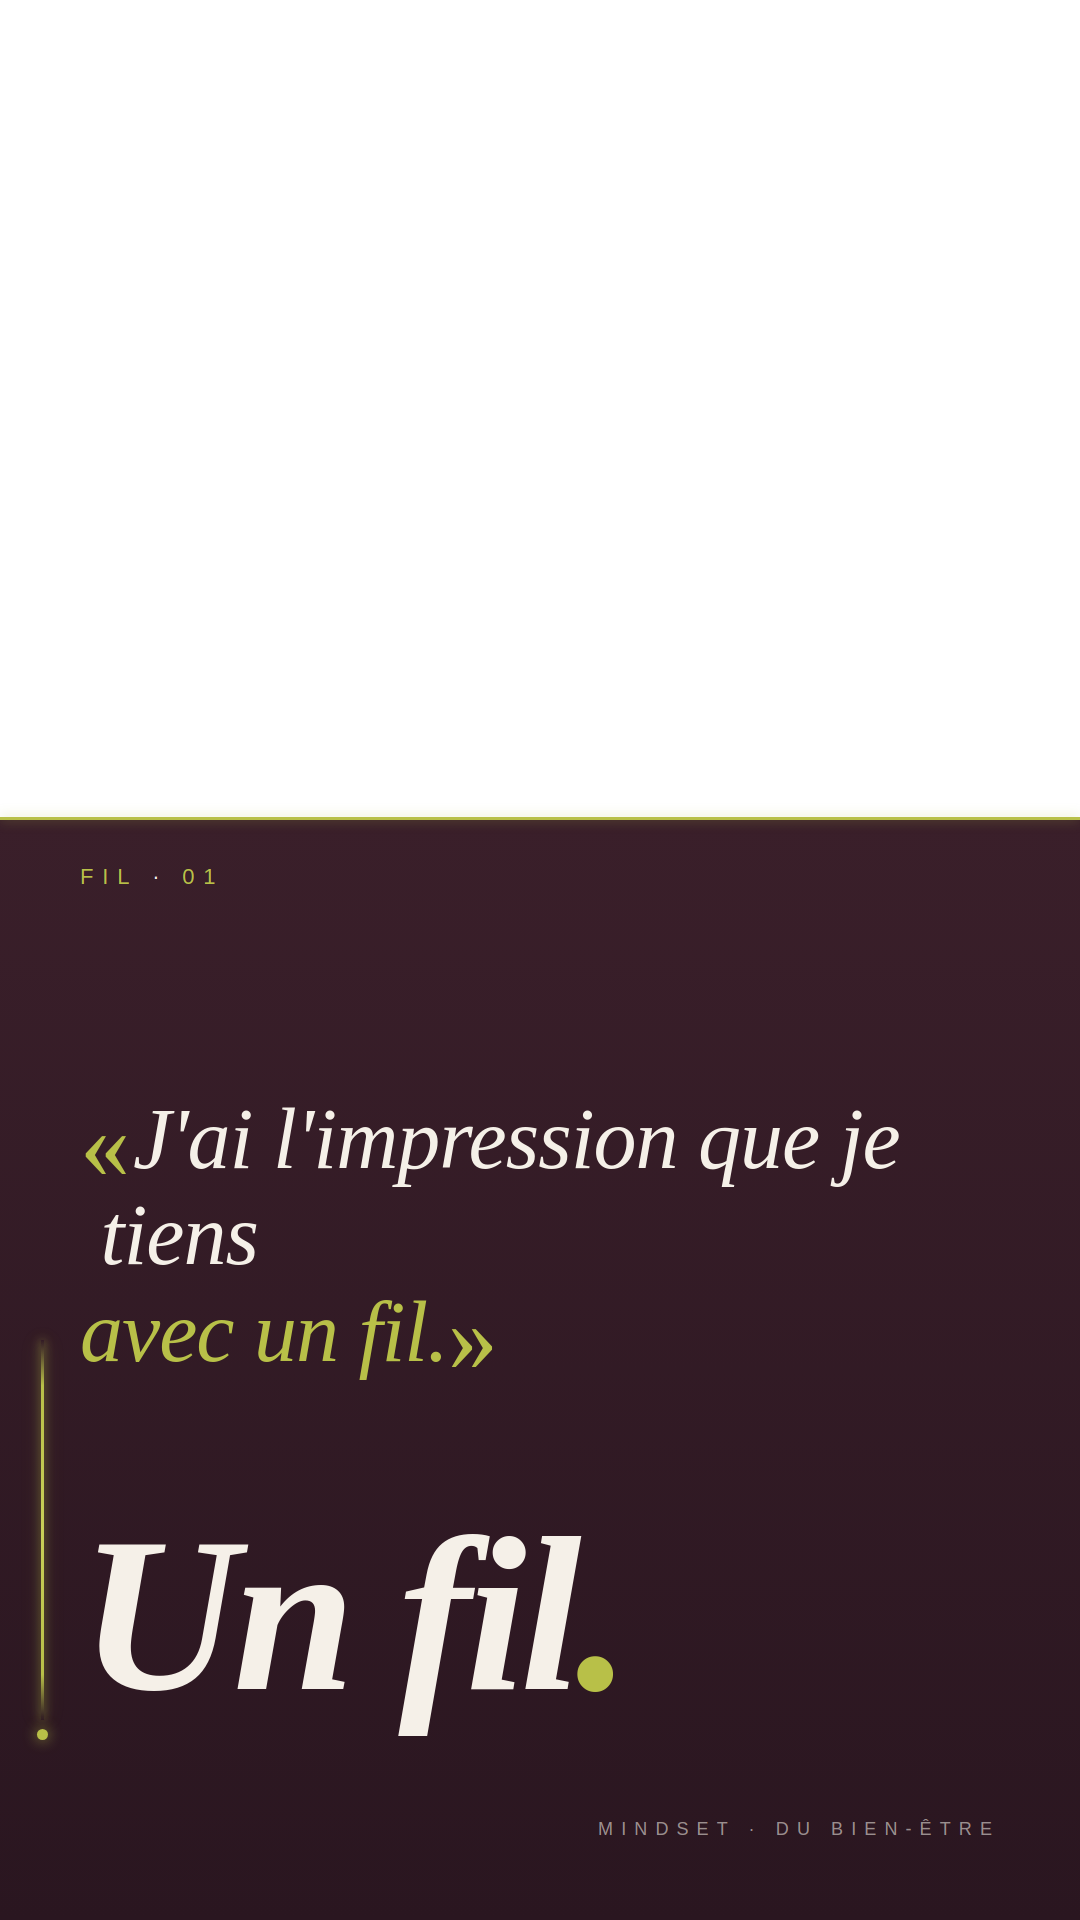
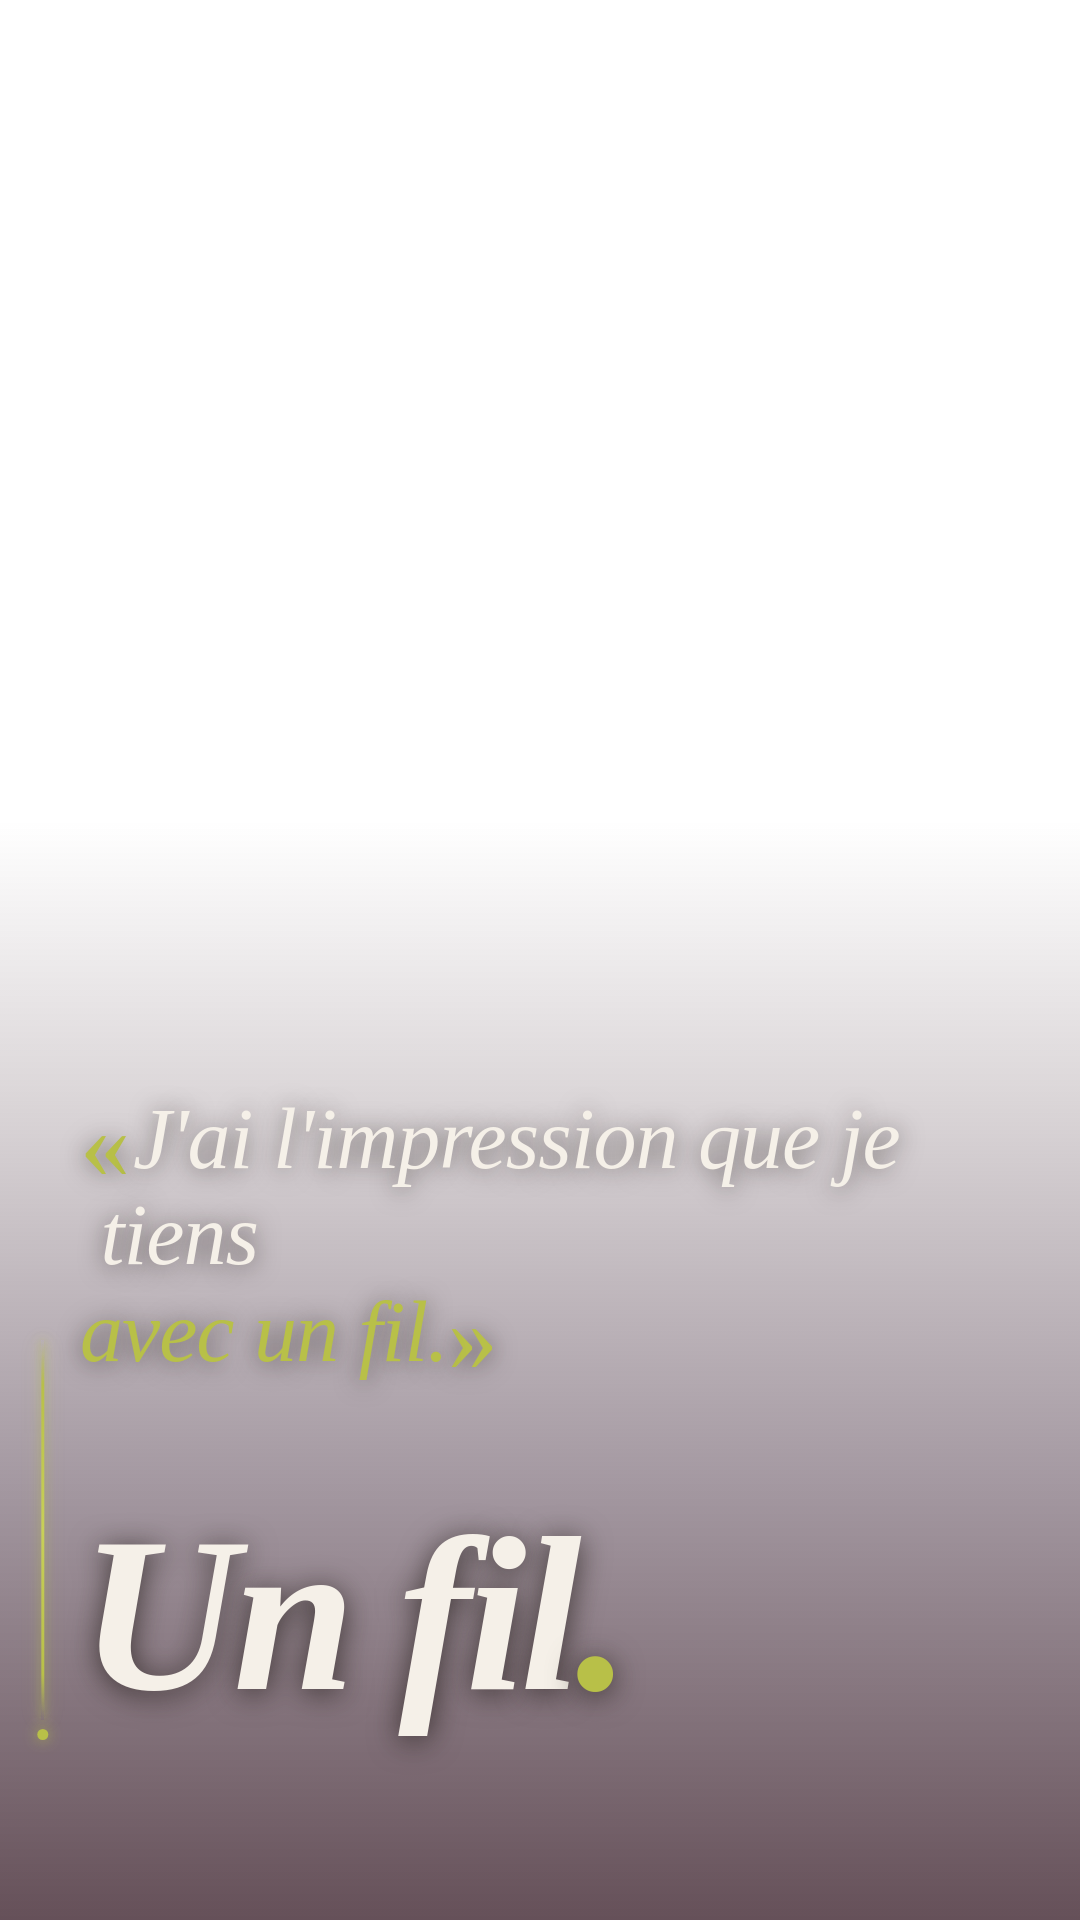
Animation #3 v3: minimalist transparent + soft mauve vignette
User feedback: remove solid aubergine wall, footer mark and
FIL·01 cartouche. Pure transparent background with subtle
mauve→aubergine vertical gradient at bottom (face area stays
fully clear). Stripped to essentials: quote, vertical fil,
"Un fil." dominant.

https://claude.ai/code/session_011tZHFvmgHookxc9Tkwo7CD

diff --git a/animations/src/03_fil.html b/animations/src/03_fil.html
@@ -2,19 +2,17 @@
 <html lang="fr">
 <head>
 <meta charset="UTF-8">
-<title>03 — Le fil (v2 aubergine)</title>
-<link href="https://fonts.googleapis.com/css2?family=Playfair+Display:ital,wght@0,400;0,700;0,900;1,400;1,700;1,900&family=Be+Vietnam+Pro:wght@300;400;500;700;800&family=Cormorant+Garamond:ital,wght@0,300;0,400;0,500;0,600;1,300;1,400;1,500;1,600&display=swap" rel="stylesheet">
+<title>03 — Le fil (v3 minimaliste)</title>
+<link href="https://fonts.googleapis.com/css2?family=Playfair+Display:ital,wght@0,400;0,700;0,900;1,400;1,700;1,900&family=Cormorant+Garamond:ital,wght@0,300;0,400;0,500;0,600;1,300;1,400;1,500;1,600&display=swap" rel="stylesheet">
 <style>
   :root {
     --ivoire: #F5F0E8;
     --ivoire-profond: #EDE5D7;
     --aubergine: #3A1F2A;
-    --aubergine-deep: #2A1620;
-    --ambre: #C86030;
-    --or: #C9A84C;
+    --mauve: #9A8090;
+    --mauve-deep: #5A4555;
     --chartreuse: #B8C048;
     --chartreuse-light: #C8D058;
-    --brun-noir: #1A1410;
   }
   html, body {
     margin: 0;
@@ -30,44 +28,20 @@
     inset: 0;
   }
 
-  /* Bandeau aubergine bas — slide up */
-  .wall {
+  /* Gradient mauve très doux, du bas vers le milieu — uniquement pour
+     darken la zone texte et garder lisibilité. Le visage reste totalement libre. */
+  .vignette {
     position: absolute;
     bottom: 0;
     left: 0;
     width: 1080px;
     height: 1100px;
-    background: linear-gradient(180deg, var(--aubergine) 0%, var(--aubergine-deep) 100%);
-    transform: translateY(100%);
-  }
-
-  /* Ligne chartreuse en haut du bandeau */
-  .top-line {
-    position: absolute;
-    bottom: 1100px;
-    left: 0;
-    width: 0;
-    height: 3px;
-    background: var(--chartreuse);
-    box-shadow: 0 0 12px rgba(184, 192, 72, 0.5);
-  }
-
-  /* Petit cartouche numéroté en haut à gauche du bandeau */
-  .marker {
-    position: absolute;
-    bottom: 1030px;
-    left: 80px;
-    color: var(--chartreuse);
-    font-family: 'Be Vietnam Pro', sans-serif;
-    font-weight: 500;
-    font-size: 22px;
-    letter-spacing: 0.4em;
-    text-transform: uppercase;
+    background: linear-gradient(180deg,
+      rgba(58, 31, 42, 0) 0%,
+      rgba(58, 31, 42, 0.18) 25%,
+      rgba(90, 69, 85, 0.55) 60%,
+      rgba(58, 31, 42, 0.78) 100%);
     opacity: 0;
-  }
-  .marker .dot {
-    color: var(--ivoire);
-    margin: 0 14px;
   }
 
   /* Citation */
@@ -83,6 +57,7 @@
     font-size: 86px;
     line-height: 1.12;
     letter-spacing: -1px;
+    text-shadow: 0 2px 24px rgba(26, 20, 16, 0.6);
   }
   .citation .quote-mark {
     color: var(--chartreuse);
@@ -106,7 +81,7 @@
     font-weight: 500;
   }
 
-  /* "Un fil." dominant — off-center, asymétrique */
+  /* "Un fil." dominant */
   .un-fil {
     position: absolute;
     bottom: 200px;
@@ -120,28 +95,13 @@
     letter-spacing: -6px;
     opacity: 0;
     transform: translateX(-24px);
+    text-shadow: 0 4px 30px rgba(26, 20, 16, 0.7);
   }
   .un-fil .point {
     color: var(--chartreuse);
-    font-size: 220px;
   }
 
-  /* Petit indicateur bottom-right */
-  .footer-mark {
-    position: absolute;
-    bottom: 80px;
-    right: 80px;
-    color: var(--ivoire);
-    opacity: 0.55;
-    font-family: 'Be Vietnam Pro', sans-serif;
-    font-weight: 400;
-    font-size: 18px;
-    letter-spacing: 0.45em;
-    text-transform: uppercase;
-    opacity: 0;
-  }
-
-  /* Le fil chartreuse — sur la gauche, vertical */
+  /* Le fil chartreuse vertical à gauche */
   .fil {
     position: absolute;
     bottom: 200px;
@@ -159,7 +119,7 @@
     transform-origin: bottom center;
   }
 
-  /* Goutte qui pend du fil */
+  /* Goutte au bout du fil */
   .fil-drop {
     position: absolute;
     bottom: 180px;
@@ -175,9 +135,7 @@
 </head>
 <body>
 <div class="stage">
-  <div class="wall" id="wall"></div>
-  <div class="top-line" id="topLine"></div>
-  <div class="marker" id="marker"><span>FIL</span><span class="dot">·</span><span>01</span></div>
+  <div class="vignette" id="vignette"></div>
 
   <div class="fil" id="fil"></div>
   <div class="fil-drop" id="filDrop"></div>
@@ -185,27 +143,12 @@
   <div class="citation" id="citation"><span class="quote-mark" id="qOpen">«</span><span class="word" data-i="0">J'ai</span><span class="word" data-i="1"> l'impression</span><span class="word" data-i="2"> que</span><span class="word" data-i="3"> je</span><span class="word" data-i="4"> tiens</span><br><span class="word em" data-i="5">avec</span><span class="word em" data-i="6"> un</span><span class="word em" data-i="7"> fil.</span><span class="quote-mark" id="qClose"> »</span></div>
 
   <div class="un-fil" id="unFil">Un fil<span class="point">.</span></div>
-
-  <div class="footer-mark" id="footerMark">Mindset · du bien-être</div>
 </div>
 
 <script>
   const FPS = 60;
   const DURATION = 5.0;
   const TOTAL_FRAMES = Math.round(FPS * DURATION);
-
-  // Timeline
-  // 0.00–0.50 : wall slides up
-  // 0.45–0.80 : top-line shoots left → right
-  // 0.50–0.80 : marker "FIL · 01" appears
-  // 0.70–2.30 : citation words appear
-  // 0.70–0.95 : quote ouvrant
-  // 1.90–2.20 : quote fermant
-  // 1.30–2.50 : fil chartreuse descend (height grow from top)
-  // 2.50–2.90 : fil-drop apparaît
-  // 2.50–3.30 : "Un fil." en grand, slide from left
-  // 3.50–4.00 : footer mark
-  // 4.00–5.00 : hold + très subtle micro-vibration fil
 
   const easeOutCubic = t => 1 - Math.pow(1 - t, 3);
   const easeOutQuart = t => 1 - Math.pow(1 - t, 4);
@@ -216,65 +159,49 @@
   function renderFrame(frame) {
     const t = frame / FPS;
 
-    // Wall slide up
-    const wallT = clamp01((t - 0.0) / 0.50);
-    const wallY = (1 - easeOutQuart(wallT)) * 100;
-    document.getElementById('wall').style.transform = `translateY(${wallY}%)`;
+    // Vignette fade
+    document.getElementById('vignette').style.opacity = easeOutCubic(clamp01((t - 0.0) / 0.55));
 
-    // Top line
-    const tlT = clamp01((t - 0.45) / 0.35);
-    document.getElementById('topLine').style.width = (easeOutCubic(tlT) * 1080) + 'px';
-
-    // Marker
-    const mkT = clamp01((t - 0.50) / 0.30);
-    document.getElementById('marker').style.opacity = easeOutCubic(mkT);
-
-    // Quote marks
-    document.getElementById('qOpen').style.opacity = easeOutCubic(clamp01((t - 0.70) / 0.25));
-    document.getElementById('qClose').style.opacity = easeOutCubic(clamp01((t - 1.90) / 0.30));
+    // Quotes
+    document.getElementById('qOpen').style.opacity = easeOutCubic(clamp01((t - 0.55) / 0.25));
+    document.getElementById('qClose').style.opacity = easeOutCubic(clamp01((t - 1.85) / 0.30));
 
     // Words
-    const words = document.querySelectorAll('.citation .word');
-    words.forEach((w, i) => {
-      const start = 0.78 + i * 0.16;
-      const dur = 0.40;
-      const wt = clamp01((t - start) / dur);
+    document.querySelectorAll('.citation .word').forEach((w, i) => {
+      const start = 0.65 + i * 0.16;
+      const wt = clamp01((t - start) / 0.40);
       const eased = easeOutCubic(wt);
       w.style.opacity = eased;
       w.style.transform = `translateY(${(1 - eased) * 18}px)`;
     });
 
-    // Fil descend (height grow from top)
-    const filT = clamp01((t - 1.30) / 1.20);
+    // Fil descend
+    const filT = clamp01((t - 1.20) / 1.20);
     const filHeight = easeInOutQuad(filT) * 380;
     const filEl = document.getElementById('fil');
     filEl.style.height = filHeight + 'px';
-    filEl.style.bottom = (200 + 380 - filHeight) + 'px'; // grows downward visually
+    filEl.style.bottom = (200 + 380 - filHeight) + 'px';
 
-    // Micro-vibration
+    // Vibration
     let dx = 0;
-    if (t > 2.50) {
-      const vibT = t - 2.50;
+    if (t > 2.40) {
+      const vibT = t - 2.40;
       const decay = Math.max(0.3, 1 - vibT * 0.20);
       dx = (Math.sin(vibT * 16) * 1.6 + Math.sin(vibT * 6.8) * 0.9) * decay;
     }
     filEl.style.transform = `translateX(${dx}px)`;
 
-    // Fil drop
-    const dropT = clamp01((t - 2.50) / 0.40);
-    const dropEased = easeOutBack(dropT);
+    // Drop
+    const dropT = clamp01((t - 2.40) / 0.40);
     document.getElementById('filDrop').style.opacity = clamp01(dropT);
-    document.getElementById('filDrop').style.transform = `translateX(${dx}px) scale(${dropEased})`;
+    document.getElementById('filDrop').style.transform = `translateX(${dx}px) scale(${easeOutBack(dropT)})`;
 
     // Un fil
-    const ufT = clamp01((t - 2.50) / 0.80);
+    const ufT = clamp01((t - 2.40) / 0.80);
     const ufEased = easeOutBack(ufT);
     const ufEl = document.getElementById('unFil');
-    ufEl.style.opacity = clamp01((t - 2.50) / 0.40);
+    ufEl.style.opacity = clamp01((t - 2.40) / 0.40);
     ufEl.style.transform = `translateX(${(1 - ufEased) * -24}px)`;
-
-    // Footer mark
-    document.getElementById('footerMark').style.opacity = clamp01((t - 3.50) / 0.50) * 0.55;
   }
 
   window.renderFrame = renderFrame;
